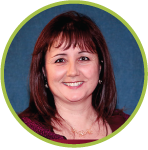
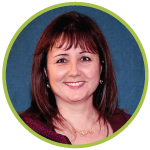
updated profile imgs, removed animations for xs and sm views

diff --git a/app/views/contact-us.html b/app/views/contact-us.html
@@ -2,19 +2,13 @@
 <div ng-include="'views/title.html'"></div>
 <!-- content -->
 <div class="row">
-  <div class="col-md-6">
+  <!-- md & lg view -->
+  <div class="col-md-6 hidden-xs hidden-sm">
     <div ng-repeat="profile in profiles" class="row fadeInDown wow" data-wow-delay="{{ animationTimeDelay[$index] }}">
       <div class="col-md-4">
         <img class="img-responsive center-block" ng-src="{{ profile.imgPath }}" alt="{{ profile.name }}" />
       </div>
-      <div class="col-md-6 visible-lg visible-md">
-        <h2 class="profile-painter">{{ profile.name }}</h2>
-        <h2>{{ profile.position }}</h2>
-        <p class="email-font">
-          {{ profile.email }}
-        </p>
-      </div>
-      <div class="col-md-6 text-center hidden-lg hidden-md">
+      <div class="col-md-6">
         <h2 class="profile-painter">{{ profile.name }}</h2>
         <h2>{{ profile.position }}</h2>
         <p class="email-font">
@@ -23,7 +17,45 @@
       </div>
     </div>
   </div>
-  <div class="col-md-6 fadeInDown wow" data-wow-delay="{{ formDelay }}">
+  <!-- xs & sm view with no animations -->
+  <div class="col-sm-6 visible-xs visible-sm">
+    <div ng-repeat="profile in profiles" class="row">
+      <div class="col-sm-4">
+        <img class="img-responsive center-block" ng-src="{{ profile.imgPath }}" alt="{{ profile.name }}" />
+      </div>
+      <div class="col-sm-6 text-center">
+        <h2 class="profile-painter">{{ profile.name }}</h2>
+        <h2>{{ profile.position }}</h2>
+        <p class="email-font">
+          {{ profile.email }}
+        </p>
+      </div>
+    </div>
+  </div>
+  <!-- md & lg view -->
+  <div class="col-md-6 fadeInDown wow hidden-xs hidden-sm" data-wow-delay="{{ formDelay }}">
+    <form id="contact-form" name="contactForm" novalidate ng-submit="submit()">
+      <div class="form-group">
+        <input id="name-input" type="name" name="name" class="form-control" placeholder="Name" ng-model="contact.name" ng-required="true" ng-blur="resetNameInput()">
+      </div>
+      <div class="form-group">
+        <input id="email-input" type="email" name="email" class="form-control" placeholder="Email" ng-model="contact.email" ng-required="true" ng-blur="resetEmailInput()">
+      </div>
+      <div class="form-group">
+        <textarea id="message-input" name="message" class="form-control" rows="12" placeholder="Message" ng-model="contact.message" ng-required="true" ng-blur="resetMessageInput()"></textarea>
+      </div>
+      <div class="row">
+        <div class="col-md-9">
+          <div id="form-messages" class="center-block text-center"></div>
+        </div>
+        <div class="col-md-3">
+          <button id="submit-btn" name="submit" type="submit" value="Send" class="btn btn-success pull-right">Submit</button>
+        </div>
+      </div>
+    </form>
+  </div>
+  <!-- xs & sm view with no animations -->
+  <div class="col-md-6 visible-xs visible-sm">
     <form id="contact-form" name="contactForm" novalidate ng-submit="submit()">
       <div class="form-group">
         <input id="name-input" type="name" name="name" class="form-control" placeholder="Name" ng-model="contact.name" ng-required="true" ng-blur="resetNameInput()">

diff --git a/app/views/how-we-work.html b/app/views/how-we-work.html
@@ -2,14 +2,24 @@
 <div ng-include="'views/title.html'"></div>
 <!-- content -->
 <div class="row">
-  <div class="col-md-12">
+  <!-- md & lg view -->
+  <div class="col-md-12 hidden-xs hidden-sm">
     <p ng-repeat="text in howWeWorkText" class=" fadeIn wow"  data-wow-delay="{{ animationTimeDelay[0] }}">
       {{ text }}
       <br />
       <br />
     </p>
     <br />
-    </div>
+  </div>
+  <!-- xs & sm view with no animations -->
+  <div class="col-md-12 visible-xs visible-sm">
+    <p ng-repeat="text in howWeWorkText">
+      {{ text }}
+      <br />
+      <br />
+    </p>
+    <br />
+  </div>
     <!-- lg-view -->
     <div class="row visible-lg">
       <img ng-repeat="icon in icons" class="img-responsive icons icons-lg fadeInDown wow" ng-src="{{ icon.imgPath }}" alt="{{ icon.name }}" data-wow-delay="{{ animationTimeDelay[$index + 1] }}" />
@@ -18,9 +28,9 @@
     <div class="row visible-md">
       <img ng-repeat="icon in icons" class="img-responsive icons icons-md fadeInDown wow" ng-src="{{ icon.imgPath }}" alt="{{ icon.name }}" data-wow-delay="{{ animationTimeDelay[$index + 1] }}" />
     </div> <!-- /md-view -->
-    <!-- sm view -->
+    <!-- sm view with no animations -->
     <div class="row visible-sm">
-      <div ng-repeat="icon in icons | limitTo : 3" class="col-sm-4 fadeInDown wow" data-wow-delay="{{ animationTimeDelay[$index + 1] }}">
+      <div ng-repeat="icon in icons | limitTo : 3" class="col-sm-4">
         <img class="img-responsive center-block" ng-src="{{ icon.imgPath }}" alt="{{ icon.name }}" />
       </div>
     </div>
@@ -28,19 +38,19 @@
       <div class="col-sm-2">
         <!-- col-sm-offset-2 -->
       </div>
-      <div ng-repeat="icon in icons | limitTo : 2 : 2" class="col-sm-4 fadeInDown wow" data-wow-delay="{{ animationTimeDelay[$index + 4] }}">
+      <div ng-repeat="icon in icons | limitTo : 2 : 2" class="col-sm-4">
         <img class="img-responsive center-block" ng-src="{{ icon.imgPath }}" alt="{{ icon.name }}" />
       </div>
     </div> <!-- /sm view -->
-    <!-- xs -view -->
+    <!-- xs view with no animations -->
     <div class="row visible-xs">
-      <div ng-repeat="icon in icons | limitTo : 2" class="col-xs-6  fadeInDown wow" data-wow-delay="{{ animationTimeDelay[$index + 1] }}">
+      <div ng-repeat="icon in icons | limitTo : 2" class="col-xs-6">
         <img class="img-responsive center-block" ng-src="{{ icon.imgPath }}" alt="{{ icon.name }}" />
       </div>
-      <div ng-repeat="icon in icons | limitTo : 2 : 2" class="col-xs-6  fadeInDown wow" data-wow-delay="{{ animationTimeDelay[$index + 3] }}">
+      <div ng-repeat="icon in icons | limitTo : 2 : 2" class="col-xs-6">
         <img class="img-responsive center-block" ng-src="{{ icon.imgPath }}" alt="{{ icon.name }}" />
       </div>
-      <div ng-repeat="icon in icons | limitTo : 1 : 4" class="col-xs-6 col-xs-offset-3 fadeInDown wow" data-wow-delay="{{ animationTimeDelay[$index + 5] }}">
+      <div ng-repeat="icon in icons | limitTo : 1 : 4" class="col-xs-6 col-xs-offset-3">
         <img class="img-responsive center-block" ng-src="{{ icon.imgPath }}" alt="{{ icon.name }}" />
       </div>
     </div> <!-- /xs -view -->

diff --git a/app/index.html b/app/index.html
@@ -4,12 +4,12 @@
   <meta charset="utf-8">
   <meta http-equiv="X-UA-Compatible" content="IE=edge">
   <title>Chrysalis</title>
-  <meta name="description" content="">
+  <meta name="description" content="Chrysalis Medical Communications is the newest company within the Nucleus Global family. We are a full-service agency dedicated to partnering with our clients to provide high-quality scientific and strategic medical communications support.">
   <meta name="viewport" content="width=device-width, initial-scale=1, maximum-scale=1, user-scalable=no">
   <link rel="stylesheet" href="//cdnjs.cloudflare.com/ajax/libs/twitter-bootstrap/3.3.6/css/bootstrap.min.css" />
-  <script src="https://use.fontawesome.com/db1865dc1e.js"></script>
-  <link rel="stylesheet" href="css/libs/animate.css" />
-  <link rel="stylesheet" href="css/styles.css">
+  <script src="//use.fontawesome.com/db1865dc1e.js"></script>
+  <link rel="stylesheet" href="/css/libs/animate.css" />
+  <link rel="stylesheet" href="/css/styles.css">
   <base href="/" />
 </head>
 <body>
@@ -26,21 +26,21 @@
   <!-- js libraries -->
   <script src="//ajax.googleapis.com/ajax/libs/jquery/2.2.4/jquery.min.js"></script>
   <script src="//maxcdn.bootstrapcdn.com/bootstrap/3.3.7/js/bootstrap.min.js"></script>
-  <script src="js/min/wow.min.js"></script>
+  <script src="/js/min/wow.min.js"></script>
   <script type="text/javascript" src="//cdnjs.cloudflare.com/ajax/libs/angular.js/1.5.2/angular.min.js"></script>
   <script type="text/javascript" src="//cdnjs.cloudflare.com/ajax/libs/angular-ui-router/0.2.18/angular-ui-router.min.js"></script>
   <script src="//ajax.googleapis.com/ajax/libs/angularjs/1.5.8/angular-sanitize.js"></script>
   <script src="//angular-ui.github.io/bootstrap/ui-bootstrap-tpls-2.4.0.js"></script>
   <script type="text/javascript" src="//code.angularjs.org/1.5.2/angular-animate.min.js"></script>
   <!-- custom js -->
-  <script src="js/min/app.min.js"></script>
-  <script src="js/min/configs/appStates.min.js"></script>
-  <script src="js/min/controllers/navbarController.min.js"></script>
-  <script src="js/min/controllers/titleController.min.js"></script>
-  <script src="js/min/controllers/aboutUsController.min.js"></script>
-  <script src="js/min/controllers/howWeWorkController.min.js"></script>
-  <script src="js/min/controllers/expertiseController.min.js"></script>
-  <script src="js/min/controllers/contactUsController.min.js"></script>
+  <script src="/js/min/app.min.js"></script>
+  <script src="/js/min/configs/appStates.min.js"></script>
+  <script src="/js/min/controllers/navbarController.min.js"></script>
+  <script src="/js/min/controllers/titleController.min.js"></script>
+  <script src="/js/min/controllers/aboutUsController.min.js"></script>
+  <script src="/js/min/controllers/howWeWorkController.min.js"></script>
+  <script src="/js/min/controllers/expertiseController.min.js"></script>
+  <script src="/js/min/controllers/contactUsController.min.js"></script>
 
 </body>
 </html>

diff --git a/app/views/about-us.html b/app/views/about-us.html
@@ -2,12 +2,17 @@
 <div class="row">
   <div class="col-sm-8">
     <!-- title -->
+    <!-- md & lg view -->
     <div ng-include="'views/title.html'"></div>
-    <p ng-repeat="paragraph in aboutUsText" class="fadeInLeft wow" data-wow-delay="{{ animationTimeDelay[$index] }}" >
+    <p ng-repeat="paragraph in aboutUsText" class="fadeInLeft wow hidden-xs hidden-sm" data-wow-delay="{{ animationTimeDelay[$index] }}" >
+      {{ paragraph }}
+    </p>
+    <!-- xs & sm view with no animations -->
+    <p ng-repeat="paragraph in aboutUsText" class="visible-xs visible-sm" >
       {{ paragraph }}
     </p>
   </div>
-  <div id="about-us-video-container" class="col-sm-4 hidden-xs">
+  <div id="about-us-video-container" class="col-sm-4 hidden-xs hidden-sm">
     <!-- video injected after text animations -->
   </div>
 </div>

diff --git a/app/views/expertise.html b/app/views/expertise.html
@@ -3,12 +3,14 @@
   <div class="col-sm-8">
     <!-- title -->
     <div ng-include="'views/title.html'"></div>
+    <!-- md & lg view -->
     <div ng-repeat="item in items" class="expertise-item fadeInDown wow hidden-sm hidden-xs" data-wow-delay="{{ animationTimeDelay[$index] }}">
       <div class="expertise-item-text">
         {{ item }}
       </div>
     </div>
-    <div ng-repeat="item in items" class="panel panel-default fadeInDown wow hidden-md hidden-lg" data-wow-delay="{{ animationTimeDelay[$index] }}">
+    <!-- xs & sm view with no animations -->
+    <div ng-repeat="item in items" class="panel panel-default hidden-md hidden-lg" data-wow-delay="{{ animationTimeDelay[$index] }}">
       {{ item }}
     </div>
   </div>
